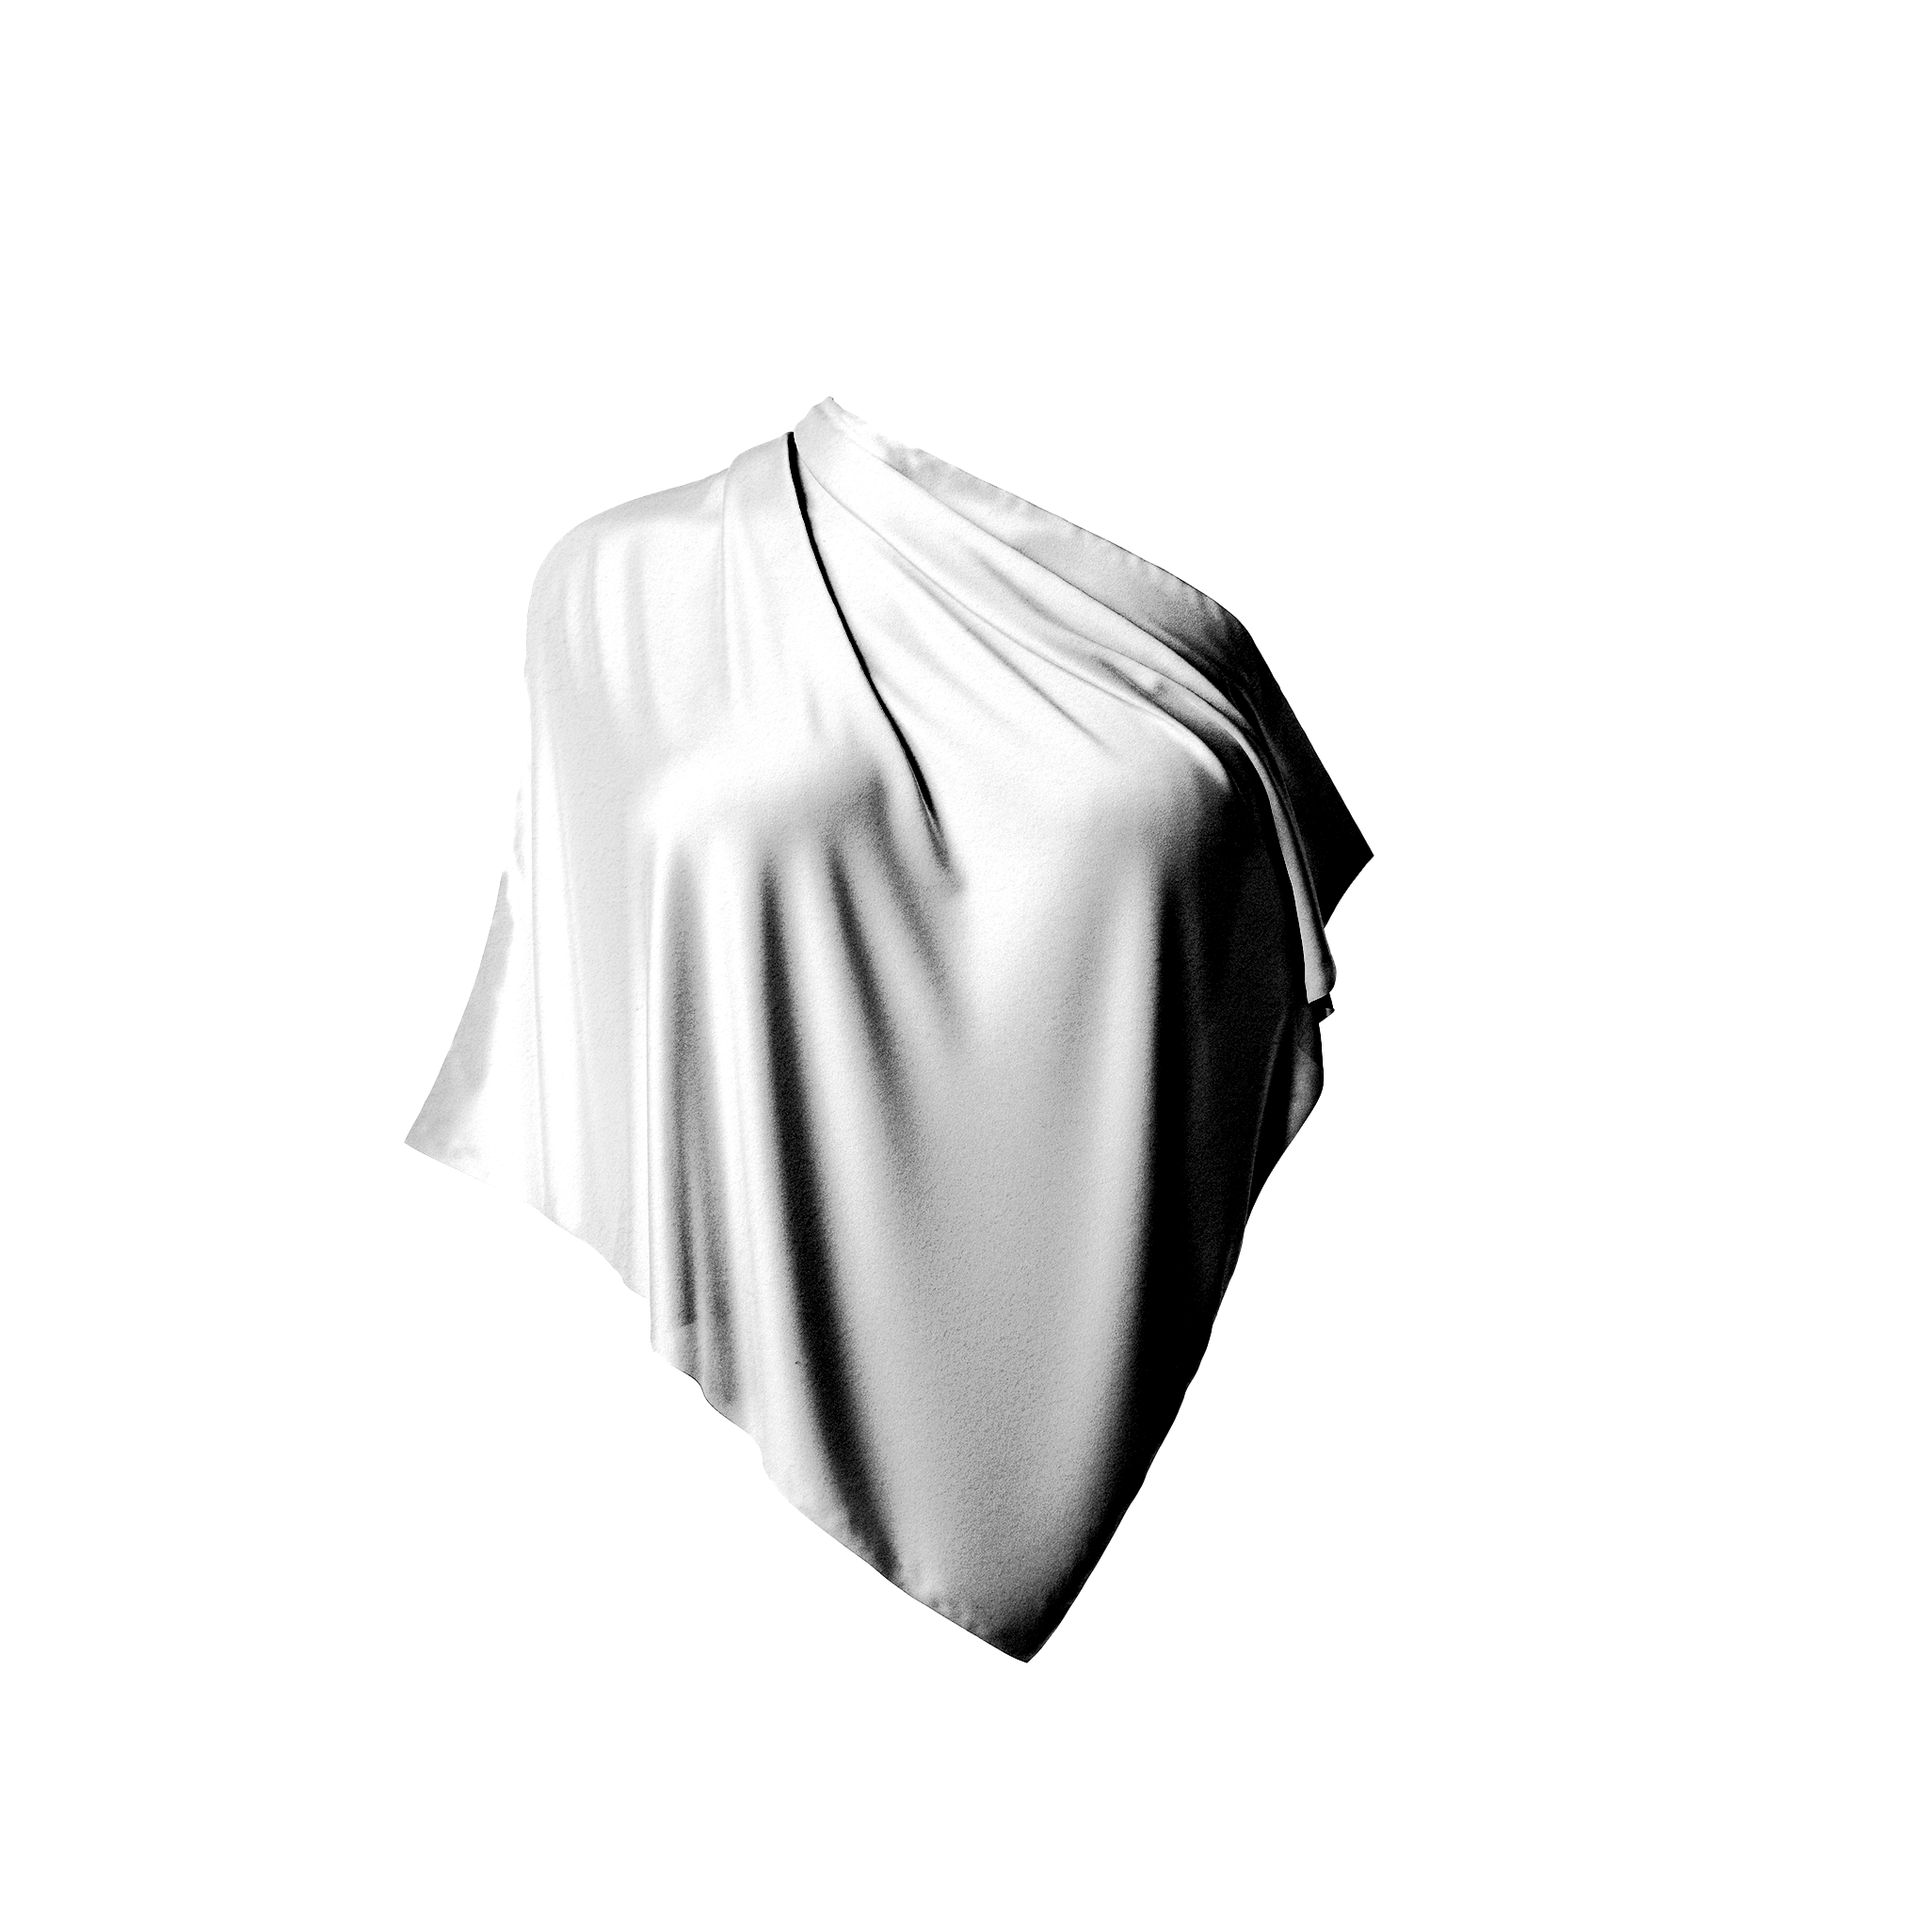
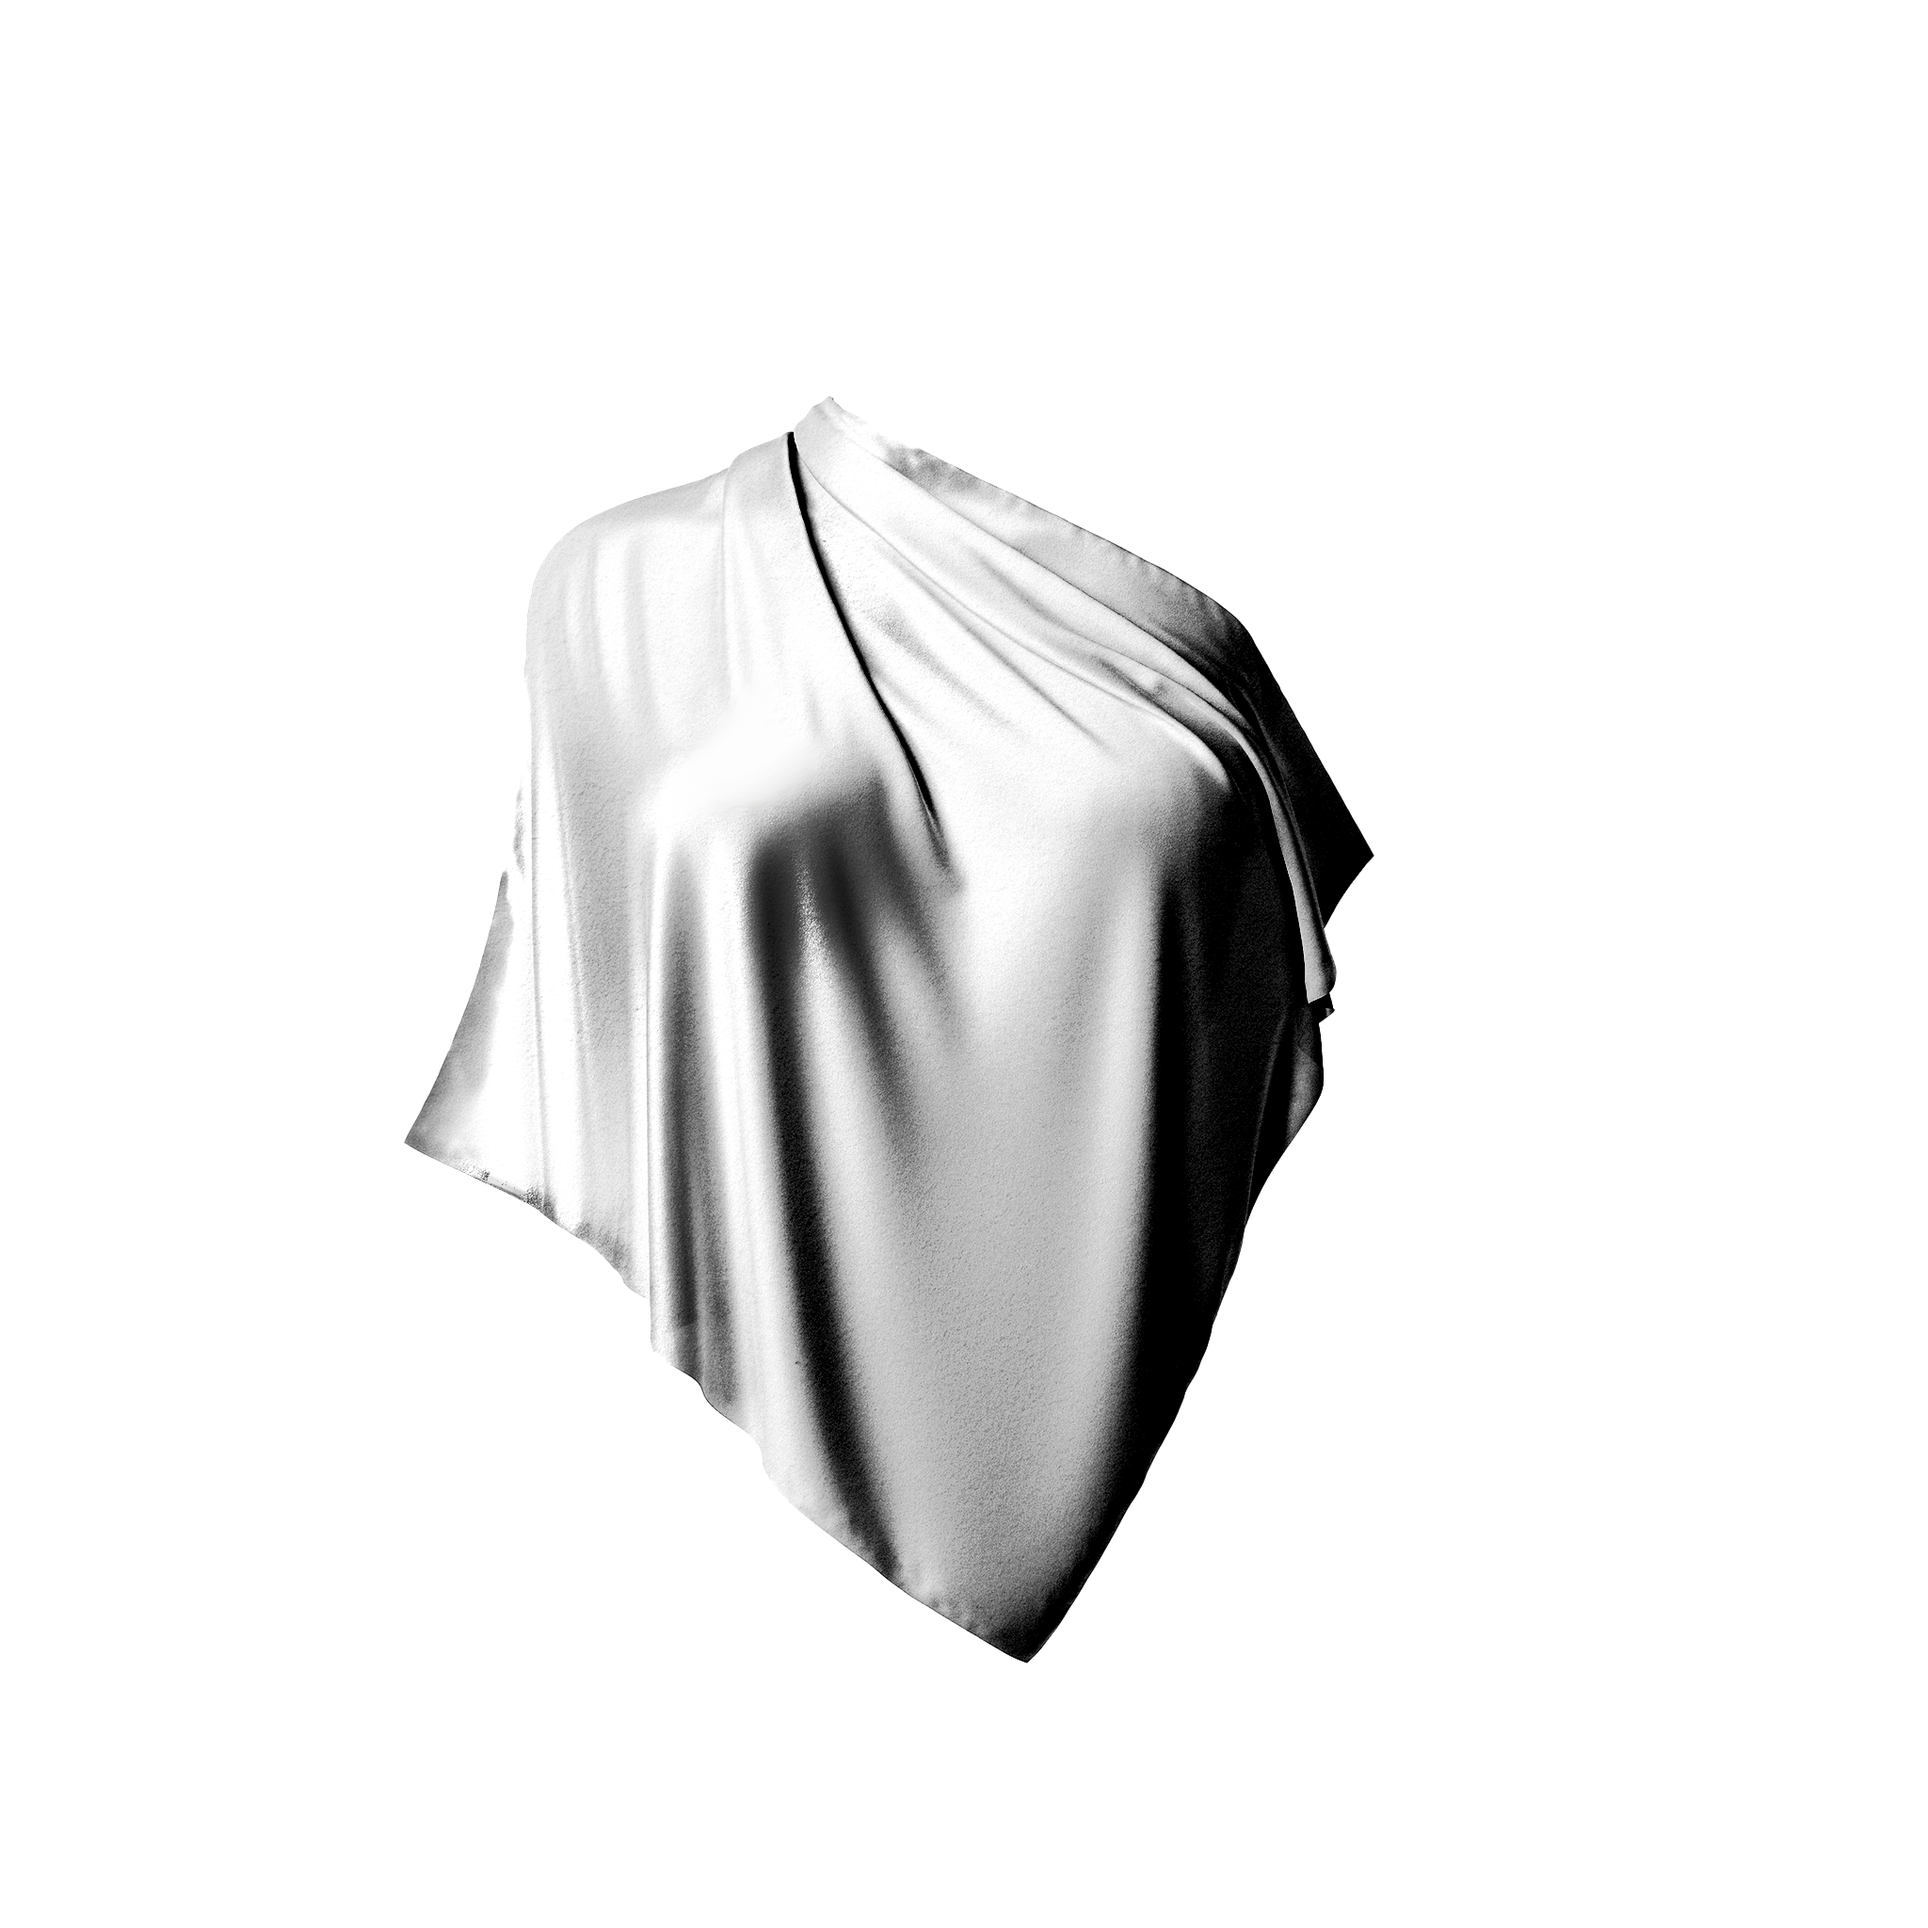
chore: fix orbit controle

diff --git a/src/layout/Configurator/index.tsx b/src/layout/Configurator/index.tsx
@@ -13,14 +13,21 @@ export default function Configurator() {
   return (
     <div className={'h-screen w-screen fixed ios'}>
       <Suspense fallback={null}>
-        <Canvas dpr={[1, 1.5]} camera={{ position: [0, 0, 1.7] }}>
+        <Canvas dpr={[1, 1.5]} camera={{ position: [0, 0, 2.3] }}>
           <ContextBridge>
             <OverlayTexture />
             <BackGround />
             <BasicModel />
             <TextureModel />
           </ContextBridge>
-          <OrbitControls />
+          <OrbitControls
+            enablePan={false}
+            enableZoom={false}
+            minAzimuthAngle={-0.2}
+            maxAzimuthAngle={0.2}
+            minPolarAngle={Math.PI / 2}
+            maxPolarAngle={Math.PI / 2}
+          />
           <Preload />
           <pointLight intensity={1} position={[0, 0, 5]} />
           <ambientLight intensity={0.4} />

diff --git a/src/componentsFor3D/TextureModel/index.tsx b/src/componentsFor3D/TextureModel/index.tsx
@@ -32,7 +32,11 @@ const TextureModel = () => {
   });
 
   return (
-    <primitive position={[0, -0.01, 0]} scale={[1, 1.05, 1]} object={model} />
+    <primitive
+      position={[-0.01, -0.01, 0.005]}
+      scale={[1.03, 1.05, 1]}
+      object={model}
+    />
   );
 };
 
